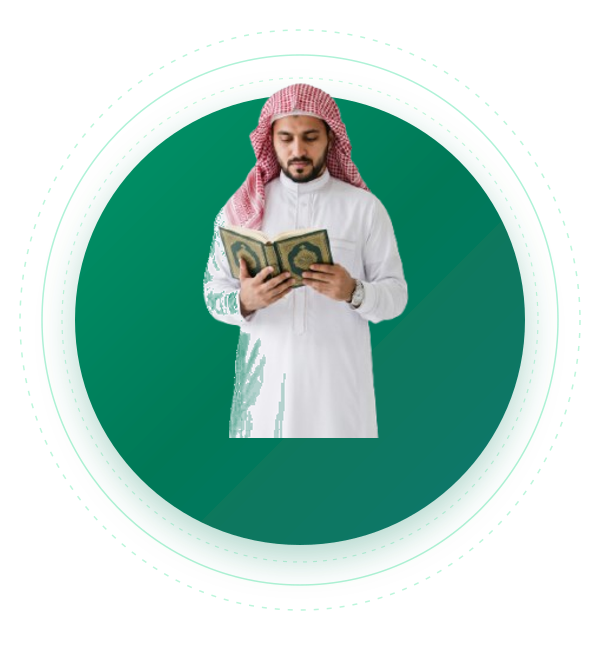
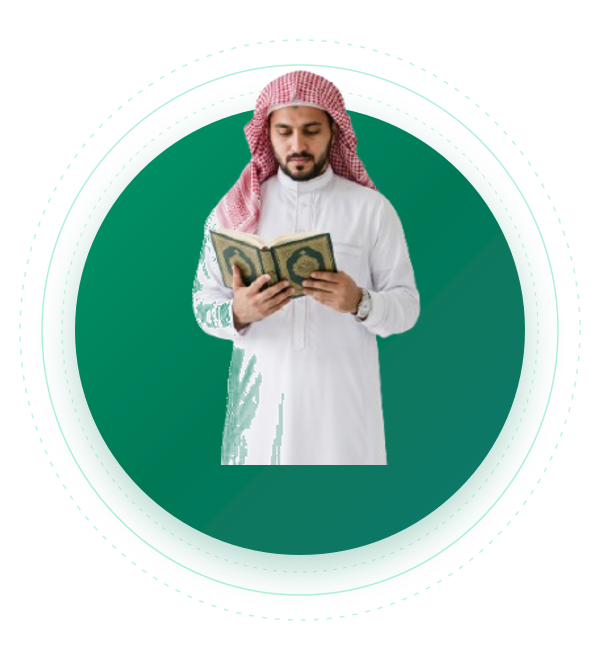
feat(hero): scale up man in circle and clip bottom along the circular arc border

diff --git a/scripts/create-centered-hero.js b/scripts/create-centered-hero.js
@@ -2,18 +2,18 @@ const sharp = require('sharp');
 const path = require('path');
 const fs = require('fs');
 
-async function createCenteredComposition() {
+async function createPopoutClippedComposition() {
   const dir = path.join(process.cwd(), 'public', 'images');
   
-  // Dimensions
+  // Canvas Dimensions
   const canvasWidth = 600;
   const canvasHeight = 650;
   
   const circleRadius = 225;
   const circleCenterX = 300;
-  const circleCenterY = 320;
+  const circleCenterY = 330;
   
-  // SVG background with subtle dashed/solid contour lines & emerald gradient circle
+  // 1. Background SVG with Contour lines + Emerald Gradient Circle + Drop shadow
   const svgBackground = `
   <svg width="${canvasWidth}" height="${canvasHeight}" viewBox="0 0 ${canvasWidth} ${canvasHeight}" xmlns="http://www.w3.org/2000/svg">
     <defs>
@@ -38,35 +38,81 @@ async function createCenteredComposition() {
   
   const bgBuffer = await sharp(Buffer.from(svgBackground)).png().toBuffer();
   
-  // Load the man cutout image
+  // 2. Load the man cutout image and make him BIGGER
   const manPath = path.join(dir, 'quran-reader-cutout.png');
   
-  // Scale man so his torso and head nicely center within the circle (like style-sample.png)
-  const resizedMan = await sharp(manPath)
-    .resize({ width: 440 })
+  // Resize the man to be larger (e.g. width: 490px)
+  const resizedManBuffer = await sharp(manPath)
+    .resize({ width: 490 })
     .toBuffer();
     
-  const manMeta = await sharp(resizedMan).metadata();
-  console.log('Resized man meta:', manMeta.width, manMeta.height);
+  const manMeta = await sharp(resizedManBuffer).metadata();
+  console.log('Resized man dimensions:', manMeta.width, manMeta.height);
   
-  // Center horizontally
+  // Position man on a 600x650 transparent canvas
   const left = Math.round((canvasWidth - manMeta.width) / 2);
-  // Head at top of circle (circle top is 320 - 225 = 95), top at 65 makes head pop nicely over the circle
-  const top = 65;
+  // Head pops out nicely above the circle top (circle top is 330 - 225 = 105)
+  // Let top = 50 so head extends proudly above the circle
+  const top = 50;
   
-  // Composite man over background
+  // Place man on full transparent 600x650 canvas
+  const manOnCanvas = await sharp({
+    create: {
+      width: canvasWidth,
+      height: canvasHeight,
+      channels: 4,
+      background: { r: 0, g: 0, b: 0, alpha: 0 }
+    }
+  })
+  .composite([
+    {
+      input: resizedManBuffer,
+      left: left,
+      top: top
+    }
+  ])
+  .png()
+  .toBuffer();
+  
+  // 3. Create Pop-out mask:
+  // - Top rectangle allows head/shoulders to pop out above the circle
+  // - Bottom half is masked strictly by the circle border (so the bottom is cut in the exact circle curve)
+  const svgMask = `
+  <svg width="${canvasWidth}" height="${canvasHeight}" viewBox="0 0 ${canvasWidth} ${canvasHeight}" xmlns="http://www.w3.org/2000/svg">
+    <!-- Top area open for head popout -->
+    <rect x="0" y="0" width="${canvasWidth}" height="${circleCenterY}" fill="white" />
+    <!-- Bottom area strictly constrained to the circle radius -->
+    <circle cx="${circleCenterX}" cy="${circleCenterY}" r="${circleRadius}" fill="white" />
+  </svg>`;
+  
+  const maskBuffer = await sharp(Buffer.from(svgMask))
+    .toColourspace('b-w')
+    .toBuffer();
+    
+  // Apply mask to the man using dest-in blend mode
+  const maskedMan = await sharp(manOnCanvas)
+    .composite([
+      {
+        input: maskBuffer,
+        blend: 'dest-in'
+      }
+    ])
+    .png()
+    .toBuffer();
+    
+  // 4. Composite the masked man onto the emerald background
   await sharp(bgBuffer)
     .composite([
       {
-        input: resizedMan,
-        left: left,
-        top: top
+        input: maskedMan,
+        left: 0,
+        top: 0
       }
     ])
     .png()
     .toFile(path.join(dir, 'hero-quran-man-centered.png'));
     
-  console.log('Successfully saved centered hero graphic to public/images/hero-quran-man-centered.png');
+  console.log('Successfully generated bigger man with curved bottom cut along circle border!');
 }
 
-createCenteredComposition().catch(console.error);
+createPopoutClippedComposition().catch(console.error);
